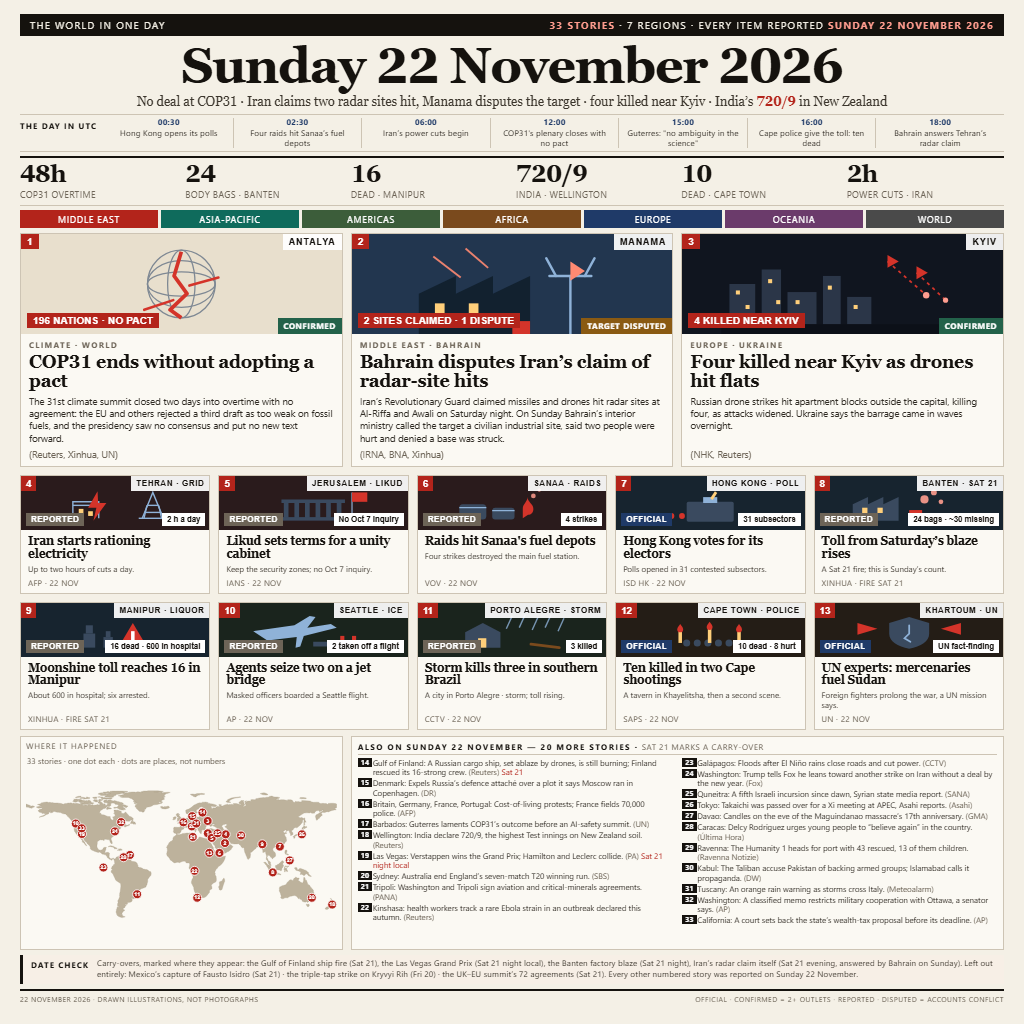
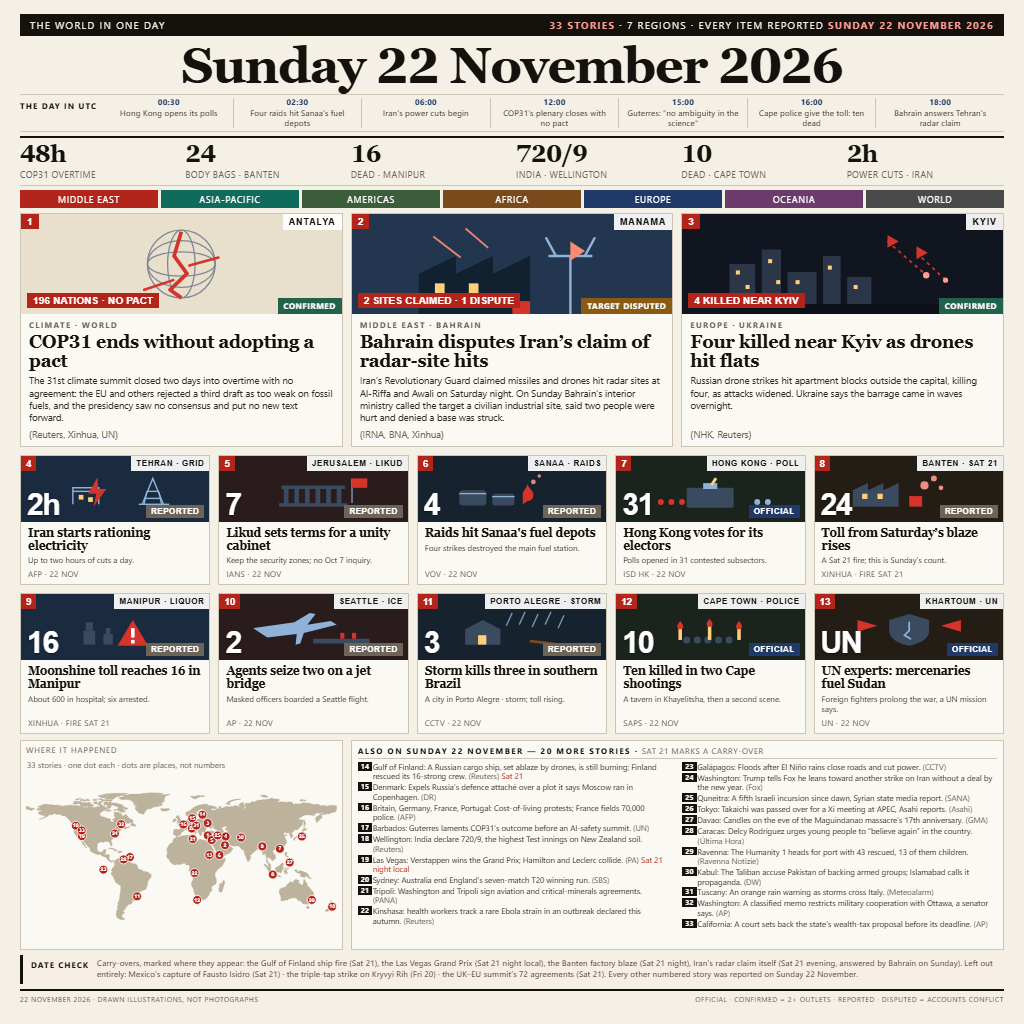
v12: one large number inside every panel, panels rotating colour, deck cut for the height
Both reviewers who compared us with the three-time winner named the same two gaps: the winners
stamp a 20-30px figure inside every picture (11 DEAD IN SINALOA, 16 SAFE, 486-4) where we had a 7.8px
pill, and their panels rotate colour so thirteen cards read as thirteen vignettes rather than one navy
slab. So each panel now carries one large token (2h, 7, 4, 31, 24, 16, 2, 3, 10, UN) and the grounds
cycle through five tints independently of region; the region key stays on the number chip. The deck
line was cut to pay for the taller panels.

Changed region(s): [[0.0, 0.0938, 1.0, 0.9062]]

diff --git a/image/frontpage.html b/image/frontpage.html
@@ -71,17 +71,16 @@
 
   .tiles { display: grid; grid-template-columns: repeat(5, 1fr); gap: 8px; margin-top: 8px; }
   .tile { border: 1px solid var(--rule); background: #fbf9f3; display: flex; flex-direction: column; overflow: hidden; }
-  .tile .scene { position: relative; height: 54px; }
+  .tile .scene { position: relative; height: 66px; }
   .tile .scene svg { width: 100%; height: 100%; display: block; padding: 4px 6px; }
   .tile .n { position: absolute; left: 0; top: 0; background: var(--red); color: #fff; font: 700 9.5px Arial; padding: 2px 5px; }
-  .tile .st { position: absolute; left: 5px; bottom: 4px; font: 700 7.8px Arial; letter-spacing: 0.08em;
+  .tile .st { position: absolute; right: 5px; bottom: 4px; font: 700 7.8px Arial; letter-spacing: 0.08em;
                 text-transform: uppercase; padding: 2px 5px; color: #fff; background: #475569; }
   .tile .st.official { background: #1f3a68; }
   .tile .st.confirmed { background: #23624a; }
   .tile .st.reported { background: #6d6457; }
-  .tile .fp { position: absolute; right: 4px; bottom: 4px; background: #fff; color: var(--ink);
-              font: 700 7.8px Arial; padding: 2px 5px; max-width: 74%; overflow: hidden;
-              text-overflow: ellipsis; white-space: nowrap; }
+  .tile .big { position: absolute; left: 6px; bottom: 2px; color: #fff; font: 700 30px Arial;
+               letter-spacing: -1.2px; line-height: 1; text-shadow: 0 1px 2px rgba(0,0,0,0.5); }
   .tile .rg { position: absolute; right: 0; top: 0; background: rgba(255,255,255,0.93); color: var(--ink);
               font: 700 7.8px Arial; letter-spacing: 0.09em; text-transform: uppercase; padding: 3px 5px; }
   .tile h3 { font-family: Georgia, serif; font-size: 11.6px; line-height: 1.1; padding: 5px 7px 0; }
@@ -129,7 +128,6 @@
 
   <div class="mast">
     <h1>Sunday 22 November 2026</h1>
-    <div class="dek">No deal at COP31 · Iran claims two radar sites hit, Manama disputes the target · four killed near Kyiv · India’s <i>720/9</i> in New Zealand</div>
 
   <div class="order">
     <div class="h">The day in utc</div>
@@ -244,71 +242,71 @@
 
   <div class="tiles">
     <div class="tile me">
-      <div class="scene" style="background:#2a1b1c"><svg viewBox="0 0 300 64" preserveAspectRatio="xMidYMid meet"><g stroke="#8fb2d8" stroke-width="2.4" fill="none"><path d="M196 58 L214 14 L232 58"/><path d="M200 48 L228 48"/><path d="M204 36 L224 36"/><path d="M199 58 L204 36"/><path d="M229 58 L224 36"/><path d="M190 58 h52"/><path d="M78 58 V30 h44 v28"/><path d="M78 36 h44"/></g><g fill="#ffcf7a"><rect x="88" y="42" width="8" height="8"/><rect x="104" y="46" width="8" height="8"/></g><path d="M120 12 L104 40 h14 l-5 22 22 -30 h-14 z" fill="#d4342a"/></svg>
-        <span class="n">4</span><span class="rg">Tehran · grid</span><span class="st reported">Reported</span><span class="fp">2 h a day</span></div>
+      <div class="scene" style="background:#1b2b3f"><svg viewBox="0 0 300 64" preserveAspectRatio="xMidYMid meet"><g stroke="#8fb2d8" stroke-width="2.4" fill="none"><path d="M196 58 L214 14 L232 58"/><path d="M200 48 L228 48"/><path d="M204 36 L224 36"/><path d="M199 58 L204 36"/><path d="M229 58 L224 36"/><path d="M190 58 h52"/><path d="M78 58 V30 h44 v28"/><path d="M78 36 h44"/></g><g fill="#ffcf7a"><rect x="88" y="42" width="8" height="8"/><rect x="104" y="46" width="8" height="8"/></g><path d="M120 12 L104 40 h14 l-5 22 22 -30 h-14 z" fill="#d4342a"/></svg>
+        <span class="n">4</span><span class="rg">Tehran · grid</span><span class="st reported">Reported</span><span class="big">2h</span></div>
       <h3>Iran starts rationing electricity</h3>
       <p class="line">Up to two hours of cuts a day.</p>
       <div class="src">AFP · 22 Nov</div>
     </div>
     <div class="tile me">
       <div class="scene" style="background:#2a1b1c"><svg viewBox="0 0 300 64" preserveAspectRatio="xMidYMid meet"><g fill="#3a4a5f"><rect x="96" y="26" width="108" height="6"/><rect x="100" y="32" width="8" height="26"/><rect x="118" y="32" width="8" height="26"/><rect x="136" y="32" width="8" height="26"/><rect x="154" y="32" width="8" height="26"/><rect x="172" y="32" width="8" height="26"/><rect x="190" y="32" width="8" height="26"/><rect x="92" y="56" width="116" height="6"/></g><g stroke="#8fb2d8" stroke-width="2"><path d="M216 56 V14"/><path d="M216 14 h26 v16 h-26z" fill="#d4342a" stroke="none"/></g></svg>
-        <span class="n">5</span><span class="rg">Jerusalem · Likud</span><span class="st reported">Reported</span><span class="fp">No Oct 7 inquiry</span></div>
+        <span class="n">5</span><span class="rg">Jerusalem · Likud</span><span class="st reported">Reported</span><span class="big">7</span></div>
       <h3>Likud sets terms for a unity cabinet</h3>
       <p class="line">Keep the security zones; no Oct 7 inquiry.</p>
       <div class="src">IANS · 22 Nov</div>
     </div>
     <div class="tile me">
-      <div class="scene" style="background:#2a1b1c"><svg viewBox="0 0 300 64" preserveAspectRatio="xMidYMid meet"><g fill="#3a4a5f"><rect x="60" y="34" width="46" height="26" rx="6"/><rect x="116" y="40" width="38" height="20" rx="5"/></g><g stroke="#8fb2d8" stroke-width="2" fill="none"><path d="M60 40 h46 M116 45 h38"/></g><g fill="#d4342a"><path d="M168 58 v-16 c0 -8 8 -12 8 -20 c0 8 10 12 10 20 c0 6 -4 10 -9 10 z"/></g><g fill="#ff9d8f" opacity="0.85"><circle cx="186" cy="20" r="4"/><circle cx="196" cy="10" r="3"/></g></svg>
-        <span class="n">6</span><span class="rg">Sanaa · raids</span><span class="st reported">Reported</span><span class="fp">4 strikes</span></div>
+      <div class="scene" style="background:#16232e"><svg viewBox="0 0 300 64" preserveAspectRatio="xMidYMid meet"><g fill="#3a4a5f"><rect x="60" y="34" width="46" height="26" rx="6"/><rect x="116" y="40" width="38" height="20" rx="5"/></g><g stroke="#8fb2d8" stroke-width="2" fill="none"><path d="M60 40 h46 M116 45 h38"/></g><g fill="#d4342a"><path d="M168 58 v-16 c0 -8 8 -12 8 -20 c0 8 10 12 10 20 c0 6 -4 10 -9 10 z"/></g><g fill="#ff9d8f" opacity="0.85"><circle cx="186" cy="20" r="4"/><circle cx="196" cy="10" r="3"/></g></svg>
+        <span class="n">6</span><span class="rg">Sanaa · raids</span><span class="st reported">Reported</span><span class="big">4</span></div>
       <h3>Raids hit Sanaa's fuel depots</h3>
       <p class="line">Four strikes destroyed the main fuel station.</p>
       <div class="src">VOV · 22 Nov</div>
     </div>
     <div class="tile ap">
-      <div class="scene" style="background:#17242f"><svg viewBox="0 0 300 64" preserveAspectRatio="xMidYMid meet"><g fill="#3a4a5f"><rect x="110" y="30" width="80" height="34" rx="3"/></g><rect x="138" y="22" width="24" height="10" fill="#8fb2d8"/><path d="M150 24 l8 -12 l4 3 l-8 12z" fill="#ffcf7a"/><g fill="#d4342a"><circle cx="66" cy="54" r="5"/><circle cx="84" cy="54" r="5"/><circle cx="102" cy="54" r="5"/></g><g fill="#8fb2d8"><circle cx="230" cy="54" r="5"/><circle cx="248" cy="54" r="5"/></g></svg>
-        <span class="n">7</span><span class="rg">Hong Kong · poll</span><span class="st official">Official</span><span class="fp">31 subsectors</span></div>
+      <div class="scene" style="background:#1a241d"><svg viewBox="0 0 300 64" preserveAspectRatio="xMidYMid meet"><g fill="#3a4a5f"><rect x="110" y="30" width="80" height="34" rx="3"/></g><rect x="138" y="22" width="24" height="10" fill="#8fb2d8"/><path d="M150 24 l8 -12 l4 3 l-8 12z" fill="#ffcf7a"/><g fill="#d4342a"><circle cx="66" cy="54" r="5"/><circle cx="84" cy="54" r="5"/><circle cx="102" cy="54" r="5"/></g><g fill="#8fb2d8"><circle cx="230" cy="54" r="5"/><circle cx="248" cy="54" r="5"/></g></svg>
+        <span class="n">7</span><span class="rg">Hong Kong · poll</span><span class="st official">Official</span><span class="big">31</span></div>
       <h3>Hong Kong votes for its electors</h3>
       <p class="line">Polls opened in 31 contested subsectors.</p>
       <div class="src">ISD HK · 22 Nov</div>
     </div>
     <div class="tile ap">
-      <div class="scene" style="background:#17242f"><svg viewBox="0 0 300 64" preserveAspectRatio="xMidYMid meet"><path d="M54 62 V34 l26 -12 v12 l26 -12 v12 l26 -12 v40z" fill="#3a4a5f"/><g fill="#ffcf7a"><rect x="70" y="40" width="9" height="9"/><rect x="96" y="40" width="9" height="9"/></g><g fill="#ff9d8f" opacity="0.9"><circle cx="176" cy="26" r="7"/><circle cx="192" cy="14" r="5"/><circle cx="204" cy="30" r="4"/></g><path d="M150 62 v-18 h22 v18z" fill="#d4342a"/></svg>
-        <span class="n">8</span><span class="rg">Banten · Sat 21</span><span class="st reported">Reported</span><span class="fp">24 bags · ~30 missing</span></div>
+      <div class="scene" style="background:#241d16"><svg viewBox="0 0 300 64" preserveAspectRatio="xMidYMid meet"><path d="M54 62 V34 l26 -12 v12 l26 -12 v12 l26 -12 v40z" fill="#3a4a5f"/><g fill="#ffcf7a"><rect x="70" y="40" width="9" height="9"/><rect x="96" y="40" width="9" height="9"/></g><g fill="#ff9d8f" opacity="0.9"><circle cx="176" cy="26" r="7"/><circle cx="192" cy="14" r="5"/><circle cx="204" cy="30" r="4"/></g><path d="M150 62 v-18 h22 v18z" fill="#d4342a"/></svg>
+        <span class="n">8</span><span class="rg">Banten · Sat 21</span><span class="st reported">Reported</span><span class="big">24</span></div>
       <h3>Toll from Saturday’s blaze rises</h3>
       <p class="line">A Sat 21 fire; this is Sunday’s count.</p>
       <div class="src">Xinhua · fire Sat 21</div>
     </div>
     <div class="tile ap">
-      <div class="scene" style="background:#17242f"><svg viewBox="0 0 300 64" preserveAspectRatio="xMidYMid meet"><g fill="#3a4a5f"><path d="M96 62 V38 h20 v24z"/><rect x="100" y="24" width="12" height="14"/><path d="M130 62 V44 h16 v18z"/><rect x="134" y="34" width="8" height="10"/></g><g fill="#d4342a"><path d="M180 20 l26 44 h-52z"/></g><rect x="177" y="34" width="6" height="16" fill="#fff"/><rect x="177" y="54" width="6" height="6" fill="#fff"/></svg>
-        <span class="n">9</span><span class="rg">Manipur · liquor</span><span class="st reported">Reported</span><span class="fp">16 dead · 600 in hospital</span></div>
+      <div class="scene" style="background:#1b2b3f"><svg viewBox="0 0 300 64" preserveAspectRatio="xMidYMid meet"><g fill="#3a4a5f"><path d="M96 62 V38 h20 v24z"/><rect x="100" y="24" width="12" height="14"/><path d="M130 62 V44 h16 v18z"/><rect x="134" y="34" width="8" height="10"/></g><g fill="#d4342a"><path d="M180 20 l26 44 h-52z"/></g><rect x="177" y="34" width="6" height="16" fill="#fff"/><rect x="177" y="54" width="6" height="6" fill="#fff"/></svg>
+        <span class="n">9</span><span class="rg">Manipur · liquor</span><span class="st reported">Reported</span><span class="big">16</span></div>
       <h3>Moonshine toll reaches 16 in Manipur</h3>
       <p class="line">About 600 in hospital; six arrested.</p>
       <div class="src">Xinhua · fire Sat 21</div>
     </div>
     <div class="tile am">
-      <div class="scene" style="background:#1a241d"><svg viewBox="0 0 300 64" preserveAspectRatio="xMidYMid meet"><path d="M48 34 l70 -10 l26 -16 l10 2 l-14 18 l40 -6 l10 6 l-56 14 l-6 18 l-8 2 l2 -18 l-50 6z" fill="#8fb2d8"/><path d="M150 52 h96 v8 h-96z" fill="#3a4a5f"/><g fill="#d4342a"><rect x="196" y="42" width="7" height="10"/><rect x="216" y="42" width="7" height="10"/></g></svg>
-        <span class="n">10</span><span class="rg">Seattle · ICE</span><span class="st reported">Reported</span><span class="fp">2 taken off a flight</span></div>
+      <div class="scene" style="background:#2a1b1c"><svg viewBox="0 0 300 64" preserveAspectRatio="xMidYMid meet"><path d="M48 34 l70 -10 l26 -16 l10 2 l-14 18 l40 -6 l10 6 l-56 14 l-6 18 l-8 2 l2 -18 l-50 6z" fill="#8fb2d8"/><path d="M150 52 h96 v8 h-96z" fill="#3a4a5f"/><g fill="#d4342a"><rect x="196" y="42" width="7" height="10"/><rect x="216" y="42" width="7" height="10"/></g></svg>
+        <span class="n">10</span><span class="rg">Seattle · ICE</span><span class="st reported">Reported</span><span class="big">2</span></div>
       <h3>Agents seize two on a jet bridge</h3>
       <p class="line">Masked officers boarded a Seattle flight.</p>
       <div class="src">AP · 22 Nov</div>
     </div>
     <div class="tile am">
-      <div class="scene" style="background:#1a241d"><svg viewBox="0 0 300 64" preserveAspectRatio="xMidYMid meet"><path d="M70 62 V36 l30 -16 l30 16 v26z" fill="#3a4a5f"/><rect x="92" y="46" width="14" height="16" fill="#ffcf7a"/><g stroke="#8fb2d8" stroke-width="2.4" opacity="0.8"><path d="M150 8 l-10 22"/><path d="M172 6 l-10 22"/><path d="M194 10 l-10 22"/><path d="M216 6 l-10 22"/><path d="M238 12 l-10 22"/></g><path d="M182 56 l48 6" stroke="#7a4a1d" stroke-width="5" stroke-linecap="round"/></svg>
-        <span class="n">11</span><span class="rg">Porto Alegre · storm</span><span class="st reported">Reported</span><span class="fp">3 killed</span></div>
+      <div class="scene" style="background:#16232e"><svg viewBox="0 0 300 64" preserveAspectRatio="xMidYMid meet"><path d="M70 62 V36 l30 -16 l30 16 v26z" fill="#3a4a5f"/><rect x="92" y="46" width="14" height="16" fill="#ffcf7a"/><g stroke="#8fb2d8" stroke-width="2.4" opacity="0.8"><path d="M150 8 l-10 22"/><path d="M172 6 l-10 22"/><path d="M194 10 l-10 22"/><path d="M216 6 l-10 22"/><path d="M238 12 l-10 22"/></g><path d="M182 56 l48 6" stroke="#7a4a1d" stroke-width="5" stroke-linecap="round"/></svg>
+        <span class="n">11</span><span class="rg">Porto Alegre · storm</span><span class="st reported">Reported</span><span class="big">3</span></div>
       <h3>Storm kills three in southern Brazil</h3>
       <p class="line">A city in Porto Alegre · storm; toll rising.</p>
       <div class="src">CCTV · 22 Nov</div>
     </div>
     <div class="tile af">
-      <div class="scene" style="background:#241d16"><svg viewBox="0 0 300 64" preserveAspectRatio="xMidYMid meet"><g fill="#3a4a5f"><circle cx="110" cy="54" r="6"/><circle cx="128" cy="54" r="6"/><circle cx="146" cy="54" r="6"/><circle cx="164" cy="54" r="6"/><circle cx="182" cy="54" r="6"/></g><g fill="#ffcf7a"><rect x="96" y="34" width="6" height="20"/><rect x="146" y="30" width="6" height="24"/><rect x="196" y="34" width="6" height="20"/></g><g fill="#d4342a"><path d="M99 22 c4 5 5 7 5 9 a5 5 0 0 1 -10 0 c0 -2 1 -4 5 -9z"/><path d="M149 18 c4 5 5 7 5 9 a5 5 0 0 1 -10 0 c0 -2 1 -4 5 -9z"/><path d="M199 22 c4 5 5 7 5 9 a5 5 0 0 1 -10 0 c0 -2 1 -4 5 -9z"/></g></svg>
-        <span class="n">12</span><span class="rg">Cape Town · police</span><span class="st official">Official</span><span class="fp">10 dead · 8 hurt</span></div>
+      <div class="scene" style="background:#1a241d"><svg viewBox="0 0 300 64" preserveAspectRatio="xMidYMid meet"><g fill="#3a4a5f"><circle cx="110" cy="54" r="6"/><circle cx="128" cy="54" r="6"/><circle cx="146" cy="54" r="6"/><circle cx="164" cy="54" r="6"/><circle cx="182" cy="54" r="6"/></g><g fill="#ffcf7a"><rect x="96" y="34" width="6" height="20"/><rect x="146" y="30" width="6" height="24"/><rect x="196" y="34" width="6" height="20"/></g><g fill="#d4342a"><path d="M99 22 c4 5 5 7 5 9 a5 5 0 0 1 -10 0 c0 -2 1 -4 5 -9z"/><path d="M149 18 c4 5 5 7 5 9 a5 5 0 0 1 -10 0 c0 -2 1 -4 5 -9z"/><path d="M199 22 c4 5 5 7 5 9 a5 5 0 0 1 -10 0 c0 -2 1 -4 5 -9z"/></g></svg>
+        <span class="n">12</span><span class="rg">Cape Town · police</span><span class="st official">Official</span><span class="big">10</span></div>
       <h3>Ten killed in two Cape shootings</h3>
       <p class="line">A tavern in Khayelitsha, then a second scene.</p>
       <div class="src">SAPS · 22 Nov</div>
     </div>
     <div class="tile af">
       <div class="scene" style="background:#241d16"><svg viewBox="0 0 300 64" preserveAspectRatio="xMidYMid meet"><path d="M150 10 l34 10 v18 c0 14 -14 22 -34 26 c-20 -4 -34 -12 -34 -26 V20z" fill="#3a4a5f"/><path d="M150 24 v14 l-8 8 l10 6" stroke="#8fb2d8" stroke-width="3" fill="none" stroke-linecap="round"/><g fill="#d4342a"><path d="M62 20 l34 10 -34 10z"/><path d="M238 20 l-34 10 34 10z"/></g></svg>
-        <span class="n">13</span><span class="rg">Khartoum · UN</span><span class="st official">Official</span><span class="fp">UN fact-finding</span></div>
+        <span class="n">13</span><span class="rg">Khartoum · UN</span><span class="st official">Official</span><span class="big">UN</span></div>
       <h3>UN experts: mercenaries fuel Sudan</h3>
       <p class="line">Foreign fighters prolong the war, a UN mission says.</p>
       <div class="src">UN · 22 Nov</div>

diff --git a/image/frontpage.raw.html b/image/frontpage.raw.html
@@ -71,17 +71,16 @@
 
   .tiles { display: grid; grid-template-columns: repeat(5, 1fr); gap: 8px; margin-top: 8px; }
   .tile { border: 1px solid var(--rule); background: #fbf9f3; display: flex; flex-direction: column; overflow: hidden; }
-  .tile .scene { position: relative; height: 54px; }
+  .tile .scene { position: relative; height: 66px; }
   .tile .scene svg { width: 100%; height: 100%; display: block; padding: 4px 6px; }
   .tile .n { position: absolute; left: 0; top: 0; background: var(--red); color: #fff; font: 700 9.5px Arial; padding: 2px 5px; }
-  .tile .st { position: absolute; left: 5px; bottom: 4px; font: 700 7.8px Arial; letter-spacing: 0.08em;
+  .tile .st { position: absolute; right: 5px; bottom: 4px; font: 700 7.8px Arial; letter-spacing: 0.08em;
                 text-transform: uppercase; padding: 2px 5px; color: #fff; background: #475569; }
   .tile .st.official { background: #1f3a68; }
   .tile .st.confirmed { background: #23624a; }
   .tile .st.reported { background: #6d6457; }
-  .tile .fp { position: absolute; right: 4px; bottom: 4px; background: #fff; color: var(--ink);
-              font: 700 7.8px Arial; padding: 2px 5px; max-width: 74%; overflow: hidden;
-              text-overflow: ellipsis; white-space: nowrap; }
+  .tile .big { position: absolute; left: 6px; bottom: 2px; color: #fff; font: 700 30px Arial;
+               letter-spacing: -1.2px; line-height: 1; text-shadow: 0 1px 2px rgba(0,0,0,0.5); }
   .tile .rg { position: absolute; right: 0; top: 0; background: rgba(255,255,255,0.93); color: var(--ink);
               font: 700 7.8px Arial; letter-spacing: 0.09em; text-transform: uppercase; padding: 3px 5px; }
   .tile h3 { font-family: Georgia, serif; font-size: 11.6px; line-height: 1.1; padding: 5px 7px 0; }
@@ -129,7 +128,6 @@
 
   <div class="mast">
     <h1>Sunday 22 November 2026</h1>
-    <div class="dek">No deal at COP31 · Iran claims two radar sites hit, Manama disputes the target · four killed near Kyiv · India’s <i>720/9</i> in New Zealand</div>
 
   <div class="order">
     <div class="h">The day in utc</div>
@@ -244,71 +242,71 @@
 
   <div class="tiles">
     <div class="tile me">
-      <div class="scene" style="background:#2a1b1c"><svg viewBox="0 0 300 64" preserveAspectRatio="xMidYMid meet"><g stroke="#8fb2d8" stroke-width="2.4" fill="none"><path d="M196 58 L214 14 L232 58"/><path d="M200 48 L228 48"/><path d="M204 36 L224 36"/><path d="M199 58 L204 36"/><path d="M229 58 L224 36"/><path d="M190 58 h52"/><path d="M78 58 V30 h44 v28"/><path d="M78 36 h44"/></g><g fill="#ffcf7a"><rect x="88" y="42" width="8" height="8"/><rect x="104" y="46" width="8" height="8"/></g><path d="M120 12 L104 40 h14 l-5 22 22 -30 h-14 z" fill="#d4342a"/></svg>
-        <span class="n">4</span><span class="rg">Tehran · grid</span><span class="st reported">Reported</span><span class="fp">2 h a day</span></div>
+      <div class="scene" style="background:#1b2b3f"><svg viewBox="0 0 300 64" preserveAspectRatio="xMidYMid meet"><g stroke="#8fb2d8" stroke-width="2.4" fill="none"><path d="M196 58 L214 14 L232 58"/><path d="M200 48 L228 48"/><path d="M204 36 L224 36"/><path d="M199 58 L204 36"/><path d="M229 58 L224 36"/><path d="M190 58 h52"/><path d="M78 58 V30 h44 v28"/><path d="M78 36 h44"/></g><g fill="#ffcf7a"><rect x="88" y="42" width="8" height="8"/><rect x="104" y="46" width="8" height="8"/></g><path d="M120 12 L104 40 h14 l-5 22 22 -30 h-14 z" fill="#d4342a"/></svg>
+        <span class="n">4</span><span class="rg">Tehran · grid</span><span class="st reported">Reported</span><span class="big">2h</span></div>
       <h3>Iran starts rationing electricity</h3>
       <p class="line">Up to two hours of cuts a day.</p>
       <div class="src">AFP · 22 Nov</div>
     </div>
     <div class="tile me">
       <div class="scene" style="background:#2a1b1c"><svg viewBox="0 0 300 64" preserveAspectRatio="xMidYMid meet"><g fill="#3a4a5f"><rect x="96" y="26" width="108" height="6"/><rect x="100" y="32" width="8" height="26"/><rect x="118" y="32" width="8" height="26"/><rect x="136" y="32" width="8" height="26"/><rect x="154" y="32" width="8" height="26"/><rect x="172" y="32" width="8" height="26"/><rect x="190" y="32" width="8" height="26"/><rect x="92" y="56" width="116" height="6"/></g><g stroke="#8fb2d8" stroke-width="2"><path d="M216 56 V14"/><path d="M216 14 h26 v16 h-26z" fill="#d4342a" stroke="none"/></g></svg>
-        <span class="n">5</span><span class="rg">Jerusalem · Likud</span><span class="st reported">Reported</span><span class="fp">No Oct 7 inquiry</span></div>
+        <span class="n">5</span><span class="rg">Jerusalem · Likud</span><span class="st reported">Reported</span><span class="big">7</span></div>
       <h3>Likud sets terms for a unity cabinet</h3>
       <p class="line">Keep the security zones; no Oct 7 inquiry.</p>
       <div class="src">IANS · 22 Nov</div>
     </div>
     <div class="tile me">
-      <div class="scene" style="background:#2a1b1c"><svg viewBox="0 0 300 64" preserveAspectRatio="xMidYMid meet"><g fill="#3a4a5f"><rect x="60" y="34" width="46" height="26" rx="6"/><rect x="116" y="40" width="38" height="20" rx="5"/></g><g stroke="#8fb2d8" stroke-width="2" fill="none"><path d="M60 40 h46 M116 45 h38"/></g><g fill="#d4342a"><path d="M168 58 v-16 c0 -8 8 -12 8 -20 c0 8 10 12 10 20 c0 6 -4 10 -9 10 z"/></g><g fill="#ff9d8f" opacity="0.85"><circle cx="186" cy="20" r="4"/><circle cx="196" cy="10" r="3"/></g></svg>
-        <span class="n">6</span><span class="rg">Sanaa · raids</span><span class="st reported">Reported</span><span class="fp">4 strikes</span></div>
+      <div class="scene" style="background:#16232e"><svg viewBox="0 0 300 64" preserveAspectRatio="xMidYMid meet"><g fill="#3a4a5f"><rect x="60" y="34" width="46" height="26" rx="6"/><rect x="116" y="40" width="38" height="20" rx="5"/></g><g stroke="#8fb2d8" stroke-width="2" fill="none"><path d="M60 40 h46 M116 45 h38"/></g><g fill="#d4342a"><path d="M168 58 v-16 c0 -8 8 -12 8 -20 c0 8 10 12 10 20 c0 6 -4 10 -9 10 z"/></g><g fill="#ff9d8f" opacity="0.85"><circle cx="186" cy="20" r="4"/><circle cx="196" cy="10" r="3"/></g></svg>
+        <span class="n">6</span><span class="rg">Sanaa · raids</span><span class="st reported">Reported</span><span class="big">4</span></div>
       <h3>Raids hit Sanaa's fuel depots</h3>
       <p class="line">Four strikes destroyed the main fuel station.</p>
       <div class="src">VOV · 22 Nov</div>
     </div>
     <div class="tile ap">
-      <div class="scene" style="background:#17242f"><svg viewBox="0 0 300 64" preserveAspectRatio="xMidYMid meet"><g fill="#3a4a5f"><rect x="110" y="30" width="80" height="34" rx="3"/></g><rect x="138" y="22" width="24" height="10" fill="#8fb2d8"/><path d="M150 24 l8 -12 l4 3 l-8 12z" fill="#ffcf7a"/><g fill="#d4342a"><circle cx="66" cy="54" r="5"/><circle cx="84" cy="54" r="5"/><circle cx="102" cy="54" r="5"/></g><g fill="#8fb2d8"><circle cx="230" cy="54" r="5"/><circle cx="248" cy="54" r="5"/></g></svg>
-        <span class="n">7</span><span class="rg">Hong Kong · poll</span><span class="st official">Official</span><span class="fp">31 subsectors</span></div>
+      <div class="scene" style="background:#1a241d"><svg viewBox="0 0 300 64" preserveAspectRatio="xMidYMid meet"><g fill="#3a4a5f"><rect x="110" y="30" width="80" height="34" rx="3"/></g><rect x="138" y="22" width="24" height="10" fill="#8fb2d8"/><path d="M150 24 l8 -12 l4 3 l-8 12z" fill="#ffcf7a"/><g fill="#d4342a"><circle cx="66" cy="54" r="5"/><circle cx="84" cy="54" r="5"/><circle cx="102" cy="54" r="5"/></g><g fill="#8fb2d8"><circle cx="230" cy="54" r="5"/><circle cx="248" cy="54" r="5"/></g></svg>
+        <span class="n">7</span><span class="rg">Hong Kong · poll</span><span class="st official">Official</span><span class="big">31</span></div>
       <h3>Hong Kong votes for its electors</h3>
       <p class="line">Polls opened in 31 contested subsectors.</p>
       <div class="src">ISD HK · 22 Nov</div>
     </div>
     <div class="tile ap">
-      <div class="scene" style="background:#17242f"><svg viewBox="0 0 300 64" preserveAspectRatio="xMidYMid meet"><path d="M54 62 V34 l26 -12 v12 l26 -12 v12 l26 -12 v40z" fill="#3a4a5f"/><g fill="#ffcf7a"><rect x="70" y="40" width="9" height="9"/><rect x="96" y="40" width="9" height="9"/></g><g fill="#ff9d8f" opacity="0.9"><circle cx="176" cy="26" r="7"/><circle cx="192" cy="14" r="5"/><circle cx="204" cy="30" r="4"/></g><path d="M150 62 v-18 h22 v18z" fill="#d4342a"/></svg>
-        <span class="n">8</span><span class="rg">Banten · Sat 21</span><span class="st reported">Reported</span><span class="fp">24 bags · ~30 missing</span></div>
+      <div class="scene" style="background:#241d16"><svg viewBox="0 0 300 64" preserveAspectRatio="xMidYMid meet"><path d="M54 62 V34 l26 -12 v12 l26 -12 v12 l26 -12 v40z" fill="#3a4a5f"/><g fill="#ffcf7a"><rect x="70" y="40" width="9" height="9"/><rect x="96" y="40" width="9" height="9"/></g><g fill="#ff9d8f" opacity="0.9"><circle cx="176" cy="26" r="7"/><circle cx="192" cy="14" r="5"/><circle cx="204" cy="30" r="4"/></g><path d="M150 62 v-18 h22 v18z" fill="#d4342a"/></svg>
+        <span class="n">8</span><span class="rg">Banten · Sat 21</span><span class="st reported">Reported</span><span class="big">24</span></div>
       <h3>Toll from Saturday’s blaze rises</h3>
       <p class="line">A Sat 21 fire; this is Sunday’s count.</p>
       <div class="src">Xinhua · fire Sat 21</div>
     </div>
     <div class="tile ap">
-      <div class="scene" style="background:#17242f"><svg viewBox="0 0 300 64" preserveAspectRatio="xMidYMid meet"><g fill="#3a4a5f"><path d="M96 62 V38 h20 v24z"/><rect x="100" y="24" width="12" height="14"/><path d="M130 62 V44 h16 v18z"/><rect x="134" y="34" width="8" height="10"/></g><g fill="#d4342a"><path d="M180 20 l26 44 h-52z"/></g><rect x="177" y="34" width="6" height="16" fill="#fff"/><rect x="177" y="54" width="6" height="6" fill="#fff"/></svg>
-        <span class="n">9</span><span class="rg">Manipur · liquor</span><span class="st reported">Reported</span><span class="fp">16 dead · 600 in hospital</span></div>
+      <div class="scene" style="background:#1b2b3f"><svg viewBox="0 0 300 64" preserveAspectRatio="xMidYMid meet"><g fill="#3a4a5f"><path d="M96 62 V38 h20 v24z"/><rect x="100" y="24" width="12" height="14"/><path d="M130 62 V44 h16 v18z"/><rect x="134" y="34" width="8" height="10"/></g><g fill="#d4342a"><path d="M180 20 l26 44 h-52z"/></g><rect x="177" y="34" width="6" height="16" fill="#fff"/><rect x="177" y="54" width="6" height="6" fill="#fff"/></svg>
+        <span class="n">9</span><span class="rg">Manipur · liquor</span><span class="st reported">Reported</span><span class="big">16</span></div>
       <h3>Moonshine toll reaches 16 in Manipur</h3>
       <p class="line">About 600 in hospital; six arrested.</p>
       <div class="src">Xinhua · fire Sat 21</div>
     </div>
     <div class="tile am">
-      <div class="scene" style="background:#1a241d"><svg viewBox="0 0 300 64" preserveAspectRatio="xMidYMid meet"><path d="M48 34 l70 -10 l26 -16 l10 2 l-14 18 l40 -6 l10 6 l-56 14 l-6 18 l-8 2 l2 -18 l-50 6z" fill="#8fb2d8"/><path d="M150 52 h96 v8 h-96z" fill="#3a4a5f"/><g fill="#d4342a"><rect x="196" y="42" width="7" height="10"/><rect x="216" y="42" width="7" height="10"/></g></svg>
-        <span class="n">10</span><span class="rg">Seattle · ICE</span><span class="st reported">Reported</span><span class="fp">2 taken off a flight</span></div>
+      <div class="scene" style="background:#2a1b1c"><svg viewBox="0 0 300 64" preserveAspectRatio="xMidYMid meet"><path d="M48 34 l70 -10 l26 -16 l10 2 l-14 18 l40 -6 l10 6 l-56 14 l-6 18 l-8 2 l2 -18 l-50 6z" fill="#8fb2d8"/><path d="M150 52 h96 v8 h-96z" fill="#3a4a5f"/><g fill="#d4342a"><rect x="196" y="42" width="7" height="10"/><rect x="216" y="42" width="7" height="10"/></g></svg>
+        <span class="n">10</span><span class="rg">Seattle · ICE</span><span class="st reported">Reported</span><span class="big">2</span></div>
       <h3>Agents seize two on a jet bridge</h3>
       <p class="line">Masked officers boarded a Seattle flight.</p>
       <div class="src">AP · 22 Nov</div>
     </div>
     <div class="tile am">
-      <div class="scene" style="background:#1a241d"><svg viewBox="0 0 300 64" preserveAspectRatio="xMidYMid meet"><path d="M70 62 V36 l30 -16 l30 16 v26z" fill="#3a4a5f"/><rect x="92" y="46" width="14" height="16" fill="#ffcf7a"/><g stroke="#8fb2d8" stroke-width="2.4" opacity="0.8"><path d="M150 8 l-10 22"/><path d="M172 6 l-10 22"/><path d="M194 10 l-10 22"/><path d="M216 6 l-10 22"/><path d="M238 12 l-10 22"/></g><path d="M182 56 l48 6" stroke="#7a4a1d" stroke-width="5" stroke-linecap="round"/></svg>
-        <span class="n">11</span><span class="rg">Porto Alegre · storm</span><span class="st reported">Reported</span><span class="fp">3 killed</span></div>
+      <div class="scene" style="background:#16232e"><svg viewBox="0 0 300 64" preserveAspectRatio="xMidYMid meet"><path d="M70 62 V36 l30 -16 l30 16 v26z" fill="#3a4a5f"/><rect x="92" y="46" width="14" height="16" fill="#ffcf7a"/><g stroke="#8fb2d8" stroke-width="2.4" opacity="0.8"><path d="M150 8 l-10 22"/><path d="M172 6 l-10 22"/><path d="M194 10 l-10 22"/><path d="M216 6 l-10 22"/><path d="M238 12 l-10 22"/></g><path d="M182 56 l48 6" stroke="#7a4a1d" stroke-width="5" stroke-linecap="round"/></svg>
+        <span class="n">11</span><span class="rg">Porto Alegre · storm</span><span class="st reported">Reported</span><span class="big">3</span></div>
       <h3>Storm kills three in southern Brazil</h3>
       <p class="line">A city in Porto Alegre · storm; toll rising.</p>
       <div class="src">CCTV · 22 Nov</div>
     </div>
     <div class="tile af">
-      <div class="scene" style="background:#241d16"><svg viewBox="0 0 300 64" preserveAspectRatio="xMidYMid meet"><g fill="#3a4a5f"><circle cx="110" cy="54" r="6"/><circle cx="128" cy="54" r="6"/><circle cx="146" cy="54" r="6"/><circle cx="164" cy="54" r="6"/><circle cx="182" cy="54" r="6"/></g><g fill="#ffcf7a"><rect x="96" y="34" width="6" height="20"/><rect x="146" y="30" width="6" height="24"/><rect x="196" y="34" width="6" height="20"/></g><g fill="#d4342a"><path d="M99 22 c4 5 5 7 5 9 a5 5 0 0 1 -10 0 c0 -2 1 -4 5 -9z"/><path d="M149 18 c4 5 5 7 5 9 a5 5 0 0 1 -10 0 c0 -2 1 -4 5 -9z"/><path d="M199 22 c4 5 5 7 5 9 a5 5 0 0 1 -10 0 c0 -2 1 -4 5 -9z"/></g></svg>
-        <span class="n">12</span><span class="rg">Cape Town · police</span><span class="st official">Official</span><span class="fp">10 dead · 8 hurt</span></div>
+      <div class="scene" style="background:#1a241d"><svg viewBox="0 0 300 64" preserveAspectRatio="xMidYMid meet"><g fill="#3a4a5f"><circle cx="110" cy="54" r="6"/><circle cx="128" cy="54" r="6"/><circle cx="146" cy="54" r="6"/><circle cx="164" cy="54" r="6"/><circle cx="182" cy="54" r="6"/></g><g fill="#ffcf7a"><rect x="96" y="34" width="6" height="20"/><rect x="146" y="30" width="6" height="24"/><rect x="196" y="34" width="6" height="20"/></g><g fill="#d4342a"><path d="M99 22 c4 5 5 7 5 9 a5 5 0 0 1 -10 0 c0 -2 1 -4 5 -9z"/><path d="M149 18 c4 5 5 7 5 9 a5 5 0 0 1 -10 0 c0 -2 1 -4 5 -9z"/><path d="M199 22 c4 5 5 7 5 9 a5 5 0 0 1 -10 0 c0 -2 1 -4 5 -9z"/></g></svg>
+        <span class="n">12</span><span class="rg">Cape Town · police</span><span class="st official">Official</span><span class="big">10</span></div>
       <h3>Ten killed in two Cape shootings</h3>
       <p class="line">A tavern in Khayelitsha, then a second scene.</p>
       <div class="src">SAPS · 22 Nov</div>
     </div>
     <div class="tile af">
       <div class="scene" style="background:#241d16"><svg viewBox="0 0 300 64" preserveAspectRatio="xMidYMid meet"><path d="M150 10 l34 10 v18 c0 14 -14 22 -34 26 c-20 -4 -34 -12 -34 -26 V20z" fill="#3a4a5f"/><path d="M150 24 v14 l-8 8 l10 6" stroke="#8fb2d8" stroke-width="3" fill="none" stroke-linecap="round"/><g fill="#d4342a"><path d="M62 20 l34 10 -34 10z"/><path d="M238 20 l-34 10 34 10z"/></g></svg>
-        <span class="n">13</span><span class="rg">Khartoum · UN</span><span class="st official">Official</span><span class="fp">UN fact-finding</span></div>
+        <span class="n">13</span><span class="rg">Khartoum · UN</span><span class="st official">Official</span><span class="big">UN</span></div>
       <h3>UN experts: mercenaries fuel Sudan</h3>
       <p class="line">Foreign fighters prolong the war, a UN mission says.</p>
       <div class="src">UN · 22 Nov</div>
